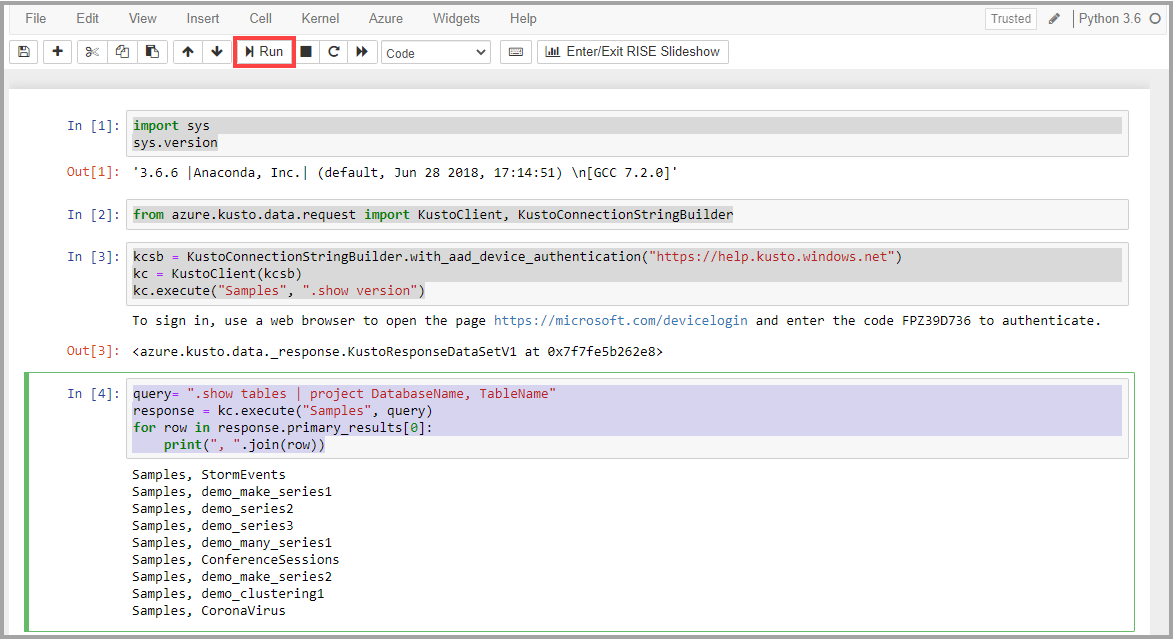
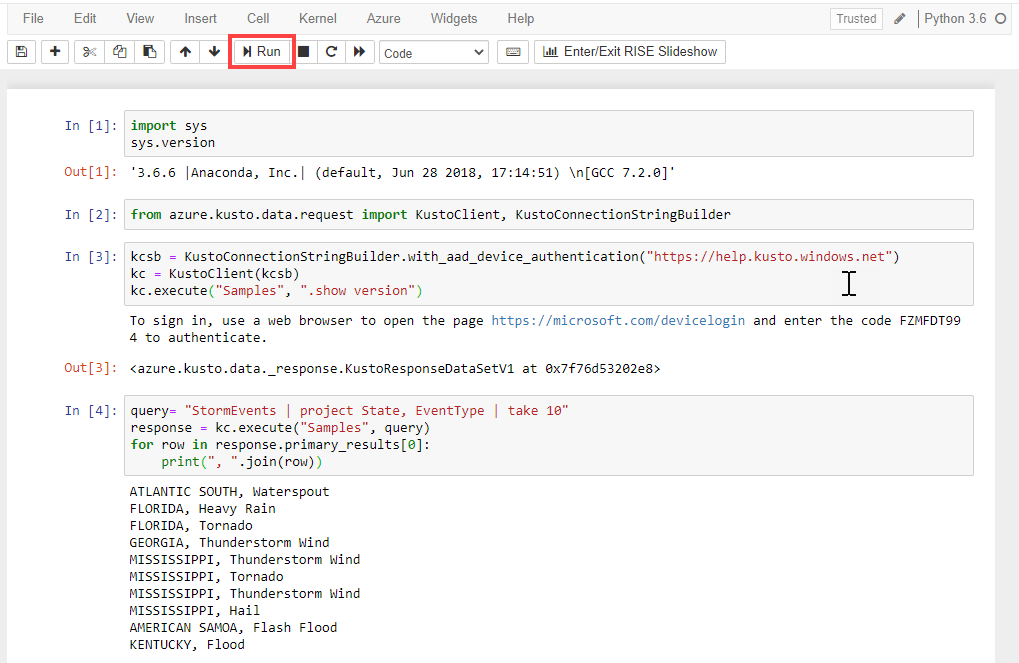
Updated example

Changed region(s): [[0.0, 0.0, 1.0, 1.0]]

diff --git a/data-explorer/azurenotbooks.md b/data-explorer/azurenotbooks.md
@@ -6,7 +6,7 @@ ms.author: orspodek
 ms.reviewer: adieldar
 ms.service: data-explorer
 ms.topic: conceptual
-ms.date: 03/23/2020
+ms.date: 03/29/2020
 ---
 
 # Use Azure Notebooks to analyze data in Azure Data Explorer
@@ -93,7 +93,7 @@ To create a notebook, select **+ New** and select **Notebook**.
 1. Enter your Kusto query and select **Run**. For example:
 
     ```python
-    query= ".show tables | project DatabaseName, TableName"
+    query= "StormEvents | project State, EventType | take 10"
     response = kc.execute("Samples", query)
     for row in response.primary_results[0]:
         print(", ".join(row))
